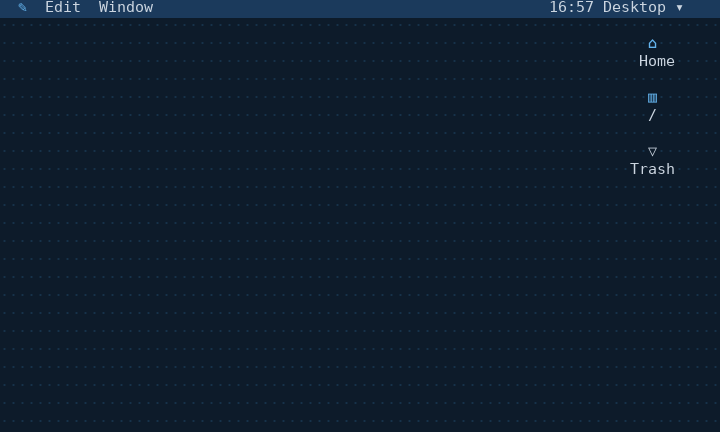
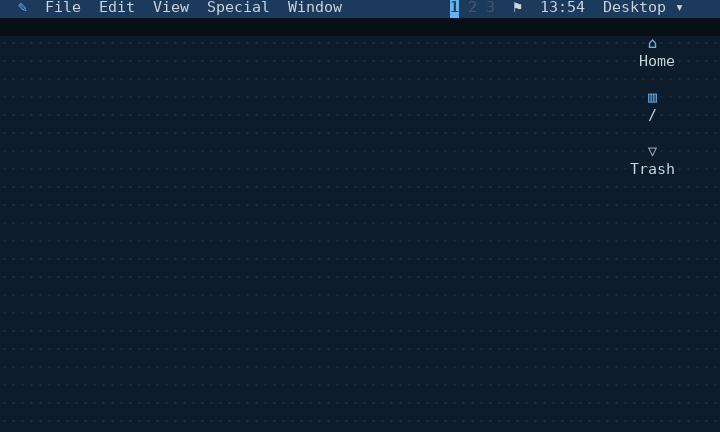
0.99.218: every screenshot was corrupt and had no recipe
First of three passes over the documentation, asked for directly: "I
want a full update on our documentation ... especially our guides on
desktop with screenshots, think of anyone visiting."

tools/screenshot.py corrupted its own output until 0.99.148, and the
eight pictures under programs/desktop/img/ were made before that and
never regenerated -- sixty-nine releases. tools/README.md recorded it as
"missing the word File". It was worse: desktop-strip.png had lost File,
View and Special, the workspace switcher and the notification flag. A
visitor's first picture of the desktop showed a menu bar with three of
its five menus gone.

They were never remade because no recipe existed anywhere. Each was made
by hand, once, so there was nothing to re-run. tools/docshots.py is that
recipe now, one place beside the renderer.

Writing it found three faults, each of which made a picture quietly
wrong rather than failing:

  - --apps was flat where the desktop globs **, so the calculator, which
    lives in Accessories/, sourced nothing and its window photographed
    as an empty box with a correct title.
  - --wait is a settle timeout, not a dwell: it returns the moment the
    desktop first goes idle, long before a program inside a window has
    started, so a terminal rendered blank however large --wait was made.
    --until TEXT waits for the thing, as the suites already do.
  - a pane and a strip module are scan roots of their own, so the
[…]

diff --git a/tools/docshots.py b/tools/docshots.py
@@ -1,0 +1,126 @@
+#!/usr/bin/env python3
+"""Make every screenshot the documentation shows, from one place.
+
+    python3 tools/docshots.py [--out DIR] [NAME ...]
+
+Until this existed the eight pictures under `programs/desktop/img/` had no
+recipe anywhere in the tree: each was made by hand, once, and never again.
+So when `tools/screenshot.py` turned out to be corrupting its own output
+(Gitea #181, fixed in 0.99.148) there was nothing to re-run, and the broken
+images stayed shipped for sixty-nine releases -- `desktop-strip.png` lost
+three of the menu bar's five menus, the workspace switcher and the
+notification flag, and nobody could tell because nobody could reproduce it.
+
+A picture with no recipe is a claim nobody can check. The recipes live
+here now, next to the tool that renders them, and `tests/shots.py` asserts
+what each must contain.
+
+Every one is a real hibr session on a real pty: no mockups, nothing drawn
+by hand. `--cell` is deliberately left off -- the documentation shows the
+desktop as it looks on a terminal that places no pixels, which is the
+honest default and the one a visitor is most likely to have. A page that
+wants to show pixels says so and passes `--cell` itself.
+"""
+import argparse, os, subprocess, sys
+
+HERE = os.path.dirname(os.path.abspath(__file__))
+ROOT = os.path.dirname(HERE)
+OUT = os.path.join(ROOT, "programs", "desktop", "img")
+
+# name -> (session, extra flags). The caption each one answers is quoted
+# above it: a caption is a claim, and this is where the claim is kept
+# honest.
+SHOTS = {
+    # "An empty desktop: the menu bar, the wallpaper, and the three fixed
+    # icons"
+    "desktop-empty": ("", []),
+
+    # "The hibr menu open, showing About hibr, Clean Up Icons, Detach and
+    # Quit"
+    "desktop-menu": ("", ["--keys", "f10"]),
+
+    # "A right-click on the desktop background showing Arrange Icons and
+    # Change Wallpaper"
+    "desktop-context": ("", ["--keys", "rclick:12:30", "--rows", "24", "--cols", "80"]),
+
+    # "Three windows open: a calculator, the file browser, and a real
+    # terminal running a nested hibr shell"
+    # calc declares 16x24 and term 14x52 on their own `dt_app` lines; a
+    # window smaller than an app's own size draws nothing at all, which
+    # is what made the first render of this show two empty boxes. And a
+    # terminal's program starts at its first *draw*, not at dt_new, so
+    # TW_CMD has to be set before the frame and the wait has to be long
+    # enough for a shell to have printed its prompt.
+    "desktop-apps": (
+        'TW_CMD=(/bin/sh -c \'PS1="hibr$ "; export PS1; exec /bin/sh\')\n'
+        'dt_new "Calculator" 16 24 2 2 calc\n'
+        'dt_new "Files" 16 36 2 28 files\n'
+        'dt_new "Terminal" 14 52 19 2 term\n',
+        ["--apps", "calc,files,term", "--modules", "console,pty,term",
+         "--rows", "35", "--cols", "96", "--until", "hibr$"]),
+
+    # "Control Panel: every pane in two groups down the left, Appearance
+    # open on its theme and colour rows"
+    # The panel app lists panes, and the panes are a scan root of their
+    # own: `--apps panel` alone draws "Nothing found", which is a true
+    # picture of a desktop nobody would ever run.
+    "desktop-controlpanel": (
+        'CP_PANEDIRS+=("%(cp)s")\ncp_panes\n'
+        'dt_new "Control Panel" 24 76 2 2 panel\n',
+        ["--apps", "panel", "--rows", "30", "--cols", "88",
+         "--until", "Appearance", "--keys", "click:11:12"]),
+
+    # "Date & Time, the pane the Control Panel opens on: a live clock,
+    # the date, and a small world map with Europe/London marked"
+    "desktop-datetime": (
+        'CP_PANEDIRS+=("%(cp)s")\ncp_panes\n'
+        'dt_new "Control Panel" 24 76 2 2 panel\n',
+        ["--apps", "panel", "--rows", "30", "--cols", "88",
+         "--until", "Europe/London"]),
+
+    # "The task manager, sorted by CPU, showing real processes from this
+    # machine"
+    "desktop-tasks": (
+        'dt_new "Task Manager" 20 72 2 2 tasks\n',
+        ["--apps", "tasks", "--rows", "26", "--cols", "84", "--wait", "1.5"]),
+
+    # "The Control Strip docked left, four named modules in brackets
+    # ending in its own arrow"
+    # The strip's modules are a scan root of their own, exactly as the
+    # Control Panel's panes are: CS_ON=1 with nothing loaded turns on an
+    # empty strip, which draws nothing and photographs as a desktop that
+    # simply has no strip.
+    "desktop-strip": (
+        'CS_MODDIRS+=("%(cs)s")\ncs_modules\nCS_ON=1\n',
+        ["--rows", "24", "--cols", "80", "--until", "Theme"]),
+}
+
+
+CP = os.path.join(ROOT, "programs", "desktop", "control-panel")
+CS = os.path.join(ROOT, "programs", "desktop", "control-strip")
+
+
+def make(name, outdir):
+    session, flags = SHOTS[name]
+    if "%(" in session:
+        session = session % {"cp": CP, "cs": CS}
+    out = os.path.join(outdir, name + ".png")
+    cmd = [sys.executable, os.path.join(HERE, "screenshot.py"), out]
+    if session:
+        cmd.append(session)
+    cmd += flags
+    r = subprocess.run(cmd, capture_output=True, text=True, timeout=180)
+    ok = r.returncode == 0 and os.path.exists(out)
+    print("  %-24s %s" % (name, "ok" if ok else "FAILED: " + (r.stderr or r.stdout)[:120]))
+    return ok
+
+
+if __name__ == "__main__":
+    ap = argparse.ArgumentParser()
+    ap.add_argument("--out", default=OUT)
+    ap.add_argument("names", nargs="*")
+    a = ap.parse_args()
+    os.makedirs(a.out, exist_ok=True)
+    names = a.names or list(SHOTS)
+    bad = [n for n in names if not make(n, a.out)]
+    sys.exit(1 if bad else 0)

diff --git a/tools/screenshot.py b/tools/screenshot.py
@@ -55,6 +55,7 @@ import base64
 import io
 import os
 import sys
+import time
 import zlib
 
 sys.path.insert(0, os.path.join(os.path.dirname(os.path.abspath(__file__)),
@@ -325,6 +326,26 @@ def encode_key(k):
     return k.encode()
 
 
+def appfile(name):
+    """Where <name>.hibr is, searched the way the desktop itself scans.
+
+    This used to be `programs/desktop/apps/<name>.hibr` and nothing else,
+    which is flat where `dt_apps` globs `**` -- so every application in a
+    submenu was unreachable. `--apps calc` silently sourced nothing, and
+    the window opened with no app behind it: an empty box with a correct
+    title, which reads as the app being broken rather than as never
+    having been loaded. The desktop's own apps live a folder across
+    again, so both roots are searched. A glob list is where coverage
+    goes to hide, and this is one wearing a different hat."""
+    for base in ("programs/desktop/apps", "programs/desktop/system"):
+        root = os.path.join(ROOT, base)
+        for d, _dirs, fs in os.walk(root):
+            if name + ".hibr" in fs:
+                return os.path.join(d, name + ".hibr")
+    raise SystemExit("screenshot.py: no app called %s under "
+                     "programs/desktop/apps or /system" % name)
+
+
 def main():
     ap = argparse.ArgumentParser(description=__doc__,
                                   formatter_class=argparse.RawDescriptionHelpFormatter)
@@ -348,8 +369,15 @@ def main():
                      help="comma-separated modules to mod-load before "
                           "sourcing (default: console)")
     ap.add_argument("--apps", default="",
-                     help="comma-separated programs/desktop/apps/<name>.hibr files "
-                          "to source first")
+                     help="comma-separated app names to source first, found "
+                          "anywhere under programs/desktop/apps or "
+                          "programs/desktop/system")
+    ap.add_argument("--until", default="",
+                     help="wait for this text to appear before the shot -- "
+                          "what a program in a window needs, since --wait is "
+                          "a settle timeout and the desktop idles first")
+    ap.add_argument("--untilmax", type=float, default=20.0,
+                     help="how long --until may wait (default 20s)")
     args = ap.parse_args()
     # nargs="*" here would greedily swallow the session positional that
     # follows on the command line -- a comma-separated string sidesteps the
@@ -362,8 +390,7 @@ def main():
         cleanup = False
     else:
         wm = tree("programs/desktop/desktop.hibr")
-        apps_src = "".join(". %s/programs/desktop/apps/%s.hibr\n" % (ROOT, a)
-                            for a in args.apps)
+        apps_src = "".join(". %s\n" % appfile(a) for a in args.apps)
         content = ("%s. %s\n%s%s\ndt_open\n%s\ndt_run\ndt_close\n"
                    % (load(*args.modules), wm, apps_src, "", args.session))
         path = os.path.join(ROOT, "tools", ".screenshot-tmp.hibr")
@@ -380,6 +407,25 @@ def main():
               settle=args.wait, cellw=cw, cellh=ch)
     for k in args.keys:
         t.send(encode_key(k), settle=0.3)
+    # --until waits for the thing, because --wait cannot.
+    #
+    # `settle` is a *timeout* for the desktop to go idle, not a dwell: it
+    # returns the moment the first idle marker arrives, which is long
+    # before a program inside a window has started, let alone printed
+    # anything. So a terminal window rendered as an empty box however
+    # large --wait was made, and raising it did nothing at all -- the
+    # desktop was already idle. Same rule as the suites' own
+    # `Term.until`: wait for the text, not for the clock.
+    if args.until:
+        end = time.time() + args.untilmax
+        while time.time() < end:
+            t.collect(0.2)
+            if args.until in t.text:
+                break
+        else:
+            print("screenshot.py: %r never appeared in %gs"
+                  % (args.until, args.untilmax), file=sys.stderr)
+            sys.exit(1)
     cs = ColourScreen(args.rows, args.cols)
     cs.feed(t.raw.decode("utf-8", errors="replace"))
     t.quit(b"qy", 1.0)

diff --git a/include/hibr.h b/include/hibr.h
@@ -8,7 +8,7 @@
 #define HIBR_ABI 16u
 #endif
 #ifndef HIBR_VER
-#define HIBR_VER "0.99.217"
+#define HIBR_VER "0.99.218"
 #endif
 #ifndef HIBR_OK
 #define HIBR_OK 0

diff --git a/CHANGELOG.md b/CHANGELOG.md
@@ -1,5 +1,53 @@
 # Changelog
 
+## 0.99.218
+
+**Every screenshot in the documentation was corrupt, and there was no
+recipe to remake them with.**
+
+First of three passes over the documentation, asked for directly: *"I
+want a full update on our documentation ... especially our guides on
+desktop with screenshots, think of anyone visiting."*
+
+`tools/screenshot.py` corrupted its own output until 0.99.148, and the
+eight pictures under `programs/desktop/img/` were made before that and
+never regenerated — sixty-nine releases. `tools/README.md` recorded it
+as *"missing the word File"*. It was worse: `desktop-strip.png` had lost
+**File**, **View** and **Special**, the workspace switcher and the
+notification flag. A visitor's first picture of the desktop showed a
+menu bar with three of its five menus gone.
+
+They were never remade because **no recipe existed anywhere**. Each was
+made by hand, once, so there was nothing to re-run.
+`tools/docshots.py` is that recipe now, one place beside the renderer.
+
+**Writing it found three faults, each of which made a picture quietly
+wrong rather than failing:**
+
+- **`--apps` was flat where the desktop globs `**`.** It resolved
+  `programs/desktop/apps/<name>.hibr` only, so the calculator — which
+  lives in `Accessories/` — sourced nothing and its window photographed
+  as an empty box with a correct title. A glob list is where coverage
+  goes to hide, wearing another hat.
+- **`--wait` is a settle timeout, not a dwell.** It returns the moment
+  the desktop first goes idle, which is long before a program inside a
+  window has started: a terminal rendered blank however large `--wait`
+  was made, and raising it could never have helped. `--until TEXT` waits
+  for the thing, which is the rule the suites already follow.
+- **A pane and a strip module are scan roots of their own.** Loading the
+  Control Panel app without `CP_PANEDIRS` photographs *"Nothing found"*,
+  and `CS_ON=1` with no `CS_MODDIRS` photographs a desktop that simply
+  has no Control Strip. Both are true pictures of a desktop nobody runs.
+
+**And four of the eight captions were false**, which is the half no
+renderer can check. The hibr menu does not say *"About hibr, Clean Up
+Icons"* — it says About This Computer, Screen Saver, Lock Screen,
+Restart Desktop, Detach and Quit. The context menu has gained Next
+Wallpaper and Refresh Desktop. The Control Strip shows five modules, not
+four. Control Panel opens on Date & Time, and its picker holds nineteen
+panes in two groups. A caption is a claim, and the tool proves the
+pixels, not the sentence under them.
+
 ## 0.99.217
 
 **The documentation says what the code does.**

diff --git a/tools/README.md b/tools/README.md
@@ -28,10 +28,34 @@ nothing: its escape skip advanced two bytes whatever the escape was, so an
 APC's base64 was fed to the grid as text and the harness's own idle marker
 (`ESC ] 7777;idle;N;M BEL`) was written across whatever window the cursor
 was in — shifting every cell written after it in that run. `tests/shots.py`
-is the guard, and the images under `programs/desktop/img/` were made before
-it: `desktop-strip.png` is missing the word **File** from its menu bar for
-exactly this reason, which is what a corrupted screenshot looks like when
-nobody is checking.
+is the guard. The images under `programs/desktop/img/` were made before it
+and stayed shipped for sixty-nine releases: `desktop-strip.png` had lost
+**File**, **View** and **Special** from its menu bar, the workspace
+switcher and the notification flag — a visitor's first picture of the
+desktop showed a menu bar with three of its five menus missing.
+
+They were never regenerated because **no recipe for them existed
+anywhere**: each was made by hand, once, so when the tool turned out to be
+corrupting its own output there was nothing to re-run. `tools/docshots.py`
+is that recipe now — one place that makes every picture the documentation
+shows, next to the tool that renders them, so a corrupted or stale image
+is one command away from being correct:
+
+```text
+python3 tools/docshots.py                 # all of them
+python3 tools/docshots.py desktop-strip   # one
+```
+
+Writing it found two more faults in this tool, both of which made a
+picture quietly wrong rather than failing. `--apps` resolved
+`programs/desktop/apps/<name>.hibr` and nothing else, where the desktop
+globs `**`, so an application in a submenu — the calculator, in
+`Accessories/` — sourced nothing and its window photographed as an empty
+box with a correct title. And `--wait` is a *settle timeout*, not a
+dwell: it returns the moment the desktop first goes idle, which is well
+before a program inside a window has started, so a terminal rendered
+blank however large `--wait` was made. `--until TEXT` waits for the
+thing, which is the rule the suites already follow.
 
 ```text
 tools/screenshot.py docs/img/hello.png 'dt_new "Hello" 8 30 6 10'

diff --git a/programs/desktop/ARCHITECTURE.md b/programs/desktop/ARCHITECTURE.md
@@ -189,13 +189,13 @@ Clock, Control Panel, About This Computer, Screenshot, and every dialog --
 is given `File > Close` and Edit by the window manager, so the two menus a
 person reaches for most never move.
 
-![The hibr menu open, showing About hibr, Clean Up Icons, Detach and Quit](img/desktop-menu.png)
+![The hibr menu open: About This Computer, Screen Saver, Lock Screen, Restart Desktop, Detach dimmed because this session is not held, and Quit](img/desktop-menu.png)
 
 A right-click gets a different menu, specific to what was clicked rather
 than to what has focus — the desktop background, a title bar, or an app's
 own `<app>_context` if it defines one:
 
-![A right-click on the desktop background showing Arrange Icons and Change Wallpaper](img/desktop-context.png)
+![A right-click on the desktop background: Arrange Icons, Change Wallpaper dimmed with no picture set, Next Wallpaper, and Refresh Desktop](img/desktop-context.png)
 
 ## Control Panel settings are a script, not a format
 
@@ -211,7 +211,7 @@ its own, but as a host for panes, each an ordinary file under
 `programs/desktop/control-panel`, System 7's Control Panels folder rather than one
 long scrolling list:
 
-![Control Panel's picker, Appearance selected and its Theme row cycled to slate](img/desktop-controlpanel.png)
+![Control Panel: nineteen panes in two groups down the left, Appearance open on its Look, Wallpaper, Menu Bar, Shadows and Controls rows](img/desktop-controlpanel.png)
 
 A pane down the left, its own rows on the right — arrows move the picker,
 tab or right or enter steps into the selected pane, and the same keys then

diff --git a/programs/desktop/README.md b/programs/desktop/README.md
@@ -1527,7 +1527,7 @@ Strip sat at the bottom of the screen and only ever slid left and right
 along it; this one docks to either side instead and slides up and down, a
 deliberate choice over period accuracy.
 
-![The Control Strip docked left, four named modules in brackets ending in its own arrow](img/desktop-strip.png)
+![The Control Strip along the bottom: Cursor, Prayer, Shadow, Theme and Wallpaper in brackets, ending in its own arrow, with the strip's shadow under it](img/desktop-strip.png)
 
 The arrow at the end is the strip's own handle, for three different
 gestures: drag it up or down to move the whole strip along its docked
